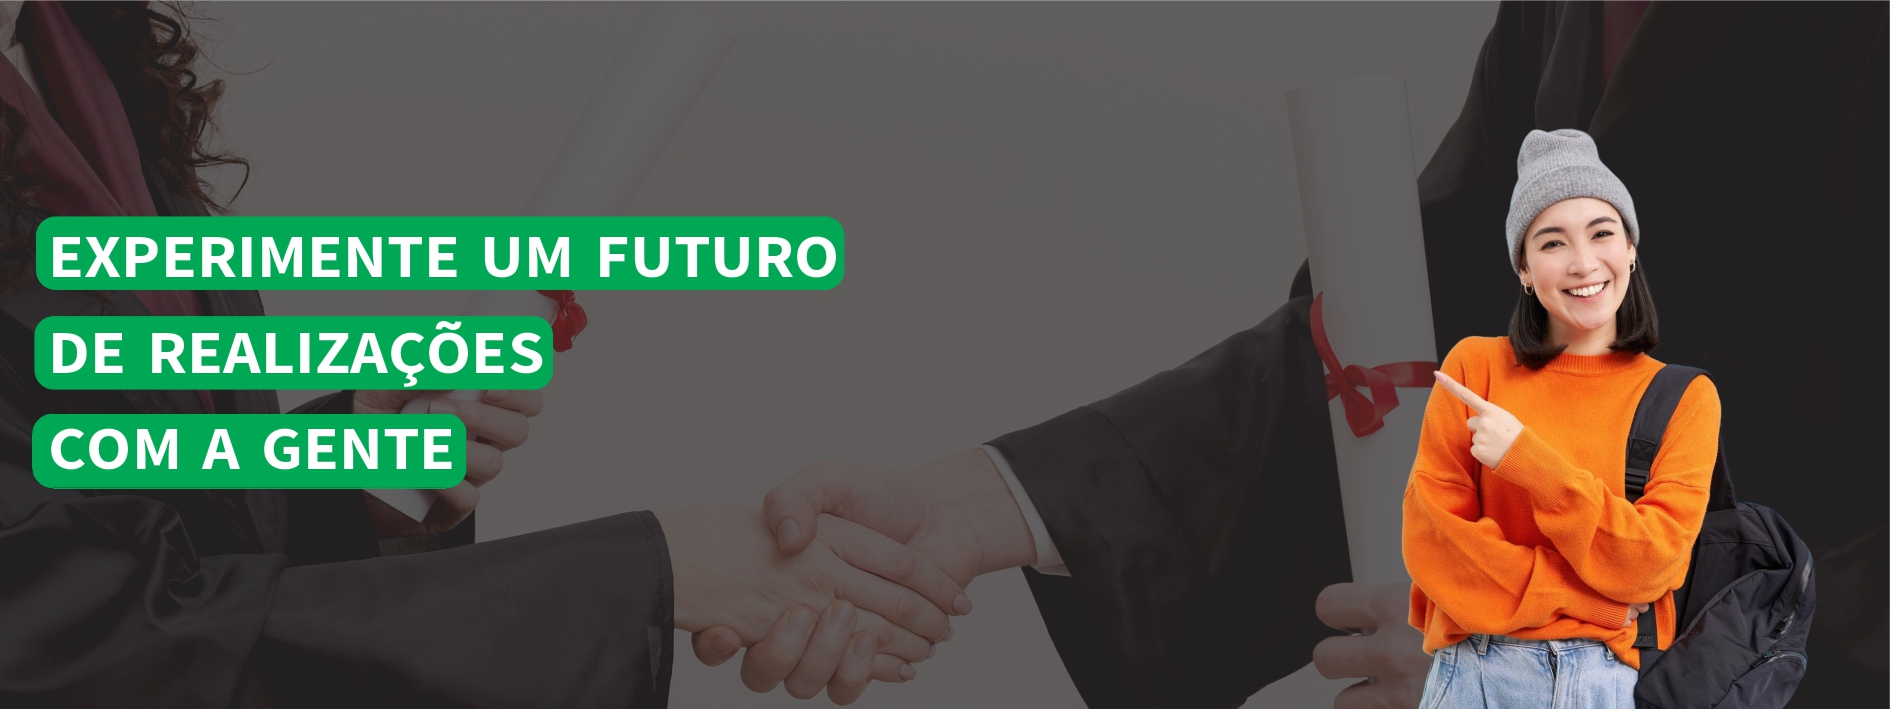
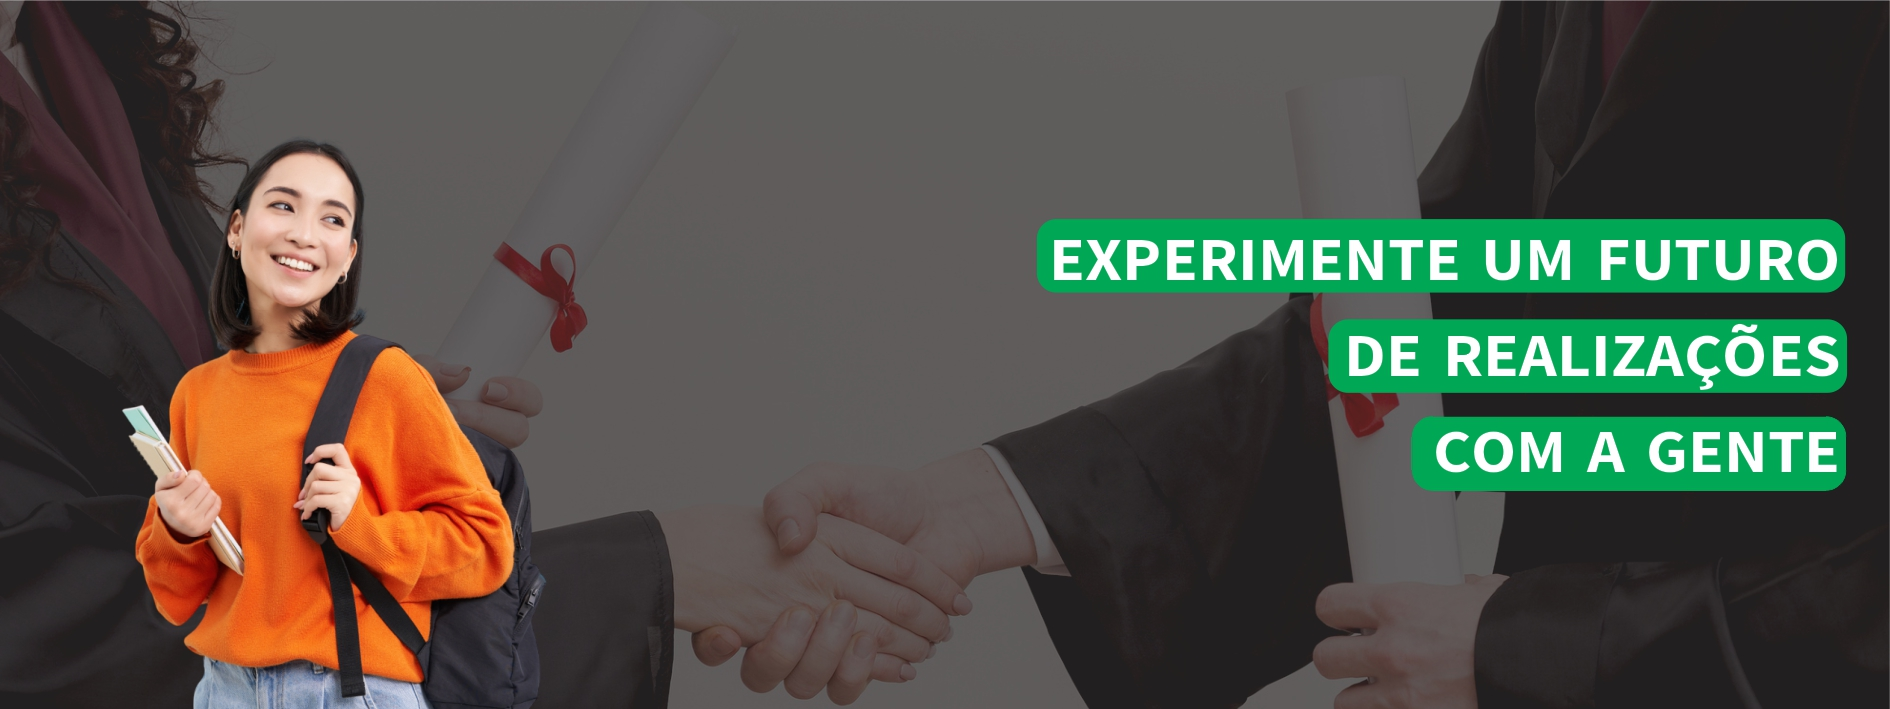
Add files via upload

diff --git a/menu.css b/menu.css
@@ -45,8 +45,8 @@ body {
 
 .ceep img {
     max-width: 60%;
-    margin: 10px auto 0;
-    display: block;
+    display:inline-flex;
+    align-items: last baseline;
 }
 
 #titulo, #titulosub {
@@ -64,4 +64,3 @@ body {
     font-size: 2.5rem;
     color: #fff;
 }
-

diff --git a/objetivo.php b/objetivo.php
@@ -20,8 +20,6 @@
     <?php include("menu.php"); ?>
 
     <div class="container mt-5">
-        <h2 class="text-center">OBJETIVO</h2>
-        <hr>
         <div class="row">
             <div class="col-12">
                 <h3 class="text-center">PROJETO POLÍTICO DO CEEP</h3>
@@ -32,19 +30,19 @@
                
                 <div class="card-container">
                     <a href="PROJETOCEEP.pdf" target="_blank">
-                        <div class="card" style=";">
-                            <div class="card-body">
-                                <h5 class="card-title text-center">Clique para abrir o Projeto Político</h5>
+                        <div class="card">
+                            <div class="card-body text-center" >
                                 <iframe src="PROJETOCEEP.pdf" class="MostrarPdf" width="100%"></iframe>
+                                <button type="button" style="align-items-center" class="btn btn-success" >Abrir Documento</button>
                             </div>
                         </div>
                     </a>
 
-                    <a href="pdfregime.php" target="_blank">
-                        <div class="card" style=" ">
-                            <div class="card-body">
-                                <h5 class="card-title text-center">Clique para abrir o Regimento Escolar</h5>
-                                <iframe src="pdfregime.php" class="MostrarPdf"></iframe>
+                    <a href="REGIMENTOCEEP.pdf" target="_blank">
+                        <div class="card">
+                            <div class="card-body text-center">
+                                <iframe src="REGIMENTOCEEP.PDF" class="MostrarPdf"></iframe>
+                                <button type="button" class="btn btn-success" >Abrir Documento</button>
                             </div>
                         </div>
                     </a>

diff --git a/index.php b/index.php
@@ -19,10 +19,10 @@
                 <img src="art1.jpg" class="d-block w-100" alt="..." style="object-fit: cover;">
             </div>
             <div class="carousel-item">
-                <img src="art3.jpg" class="d-block w-100" alt="..." style="object-fit: cover;">
+                <img src="art2.jpg" class="d-block w-100" alt="..." style="object-fit: cover;">
             </div>
             <div class="carousel-item">
-                <img src="art.jpg" class="d-block w-100" alt="..." style="object-fit: cover;">
+                <img src="art3.jpg" class="d-block w-100" alt="..." style="object-fit: cover;">
             </div>
         </div>
         <button class="carousel-control-prev" type="button" data-bs-target="#carouselExampleControls"

diff --git a/menu.php b/menu.php
@@ -30,10 +30,10 @@
 </head>
 
 <body>
-    <div class="banner" style="background-color: rgb(5, 150, 0);">
+    <div class="banner" style="background-color: rgb(5, 150, 0); ">
         <div class="row">
-            <div class="ceep col-2">
-                <a href="index.php">
+            <div class="ceep col-2 ">
+                <a href="index.php ">
                     <img src="ceep2.png" alt="Logo CEEP">
                 </a>
             </div>
